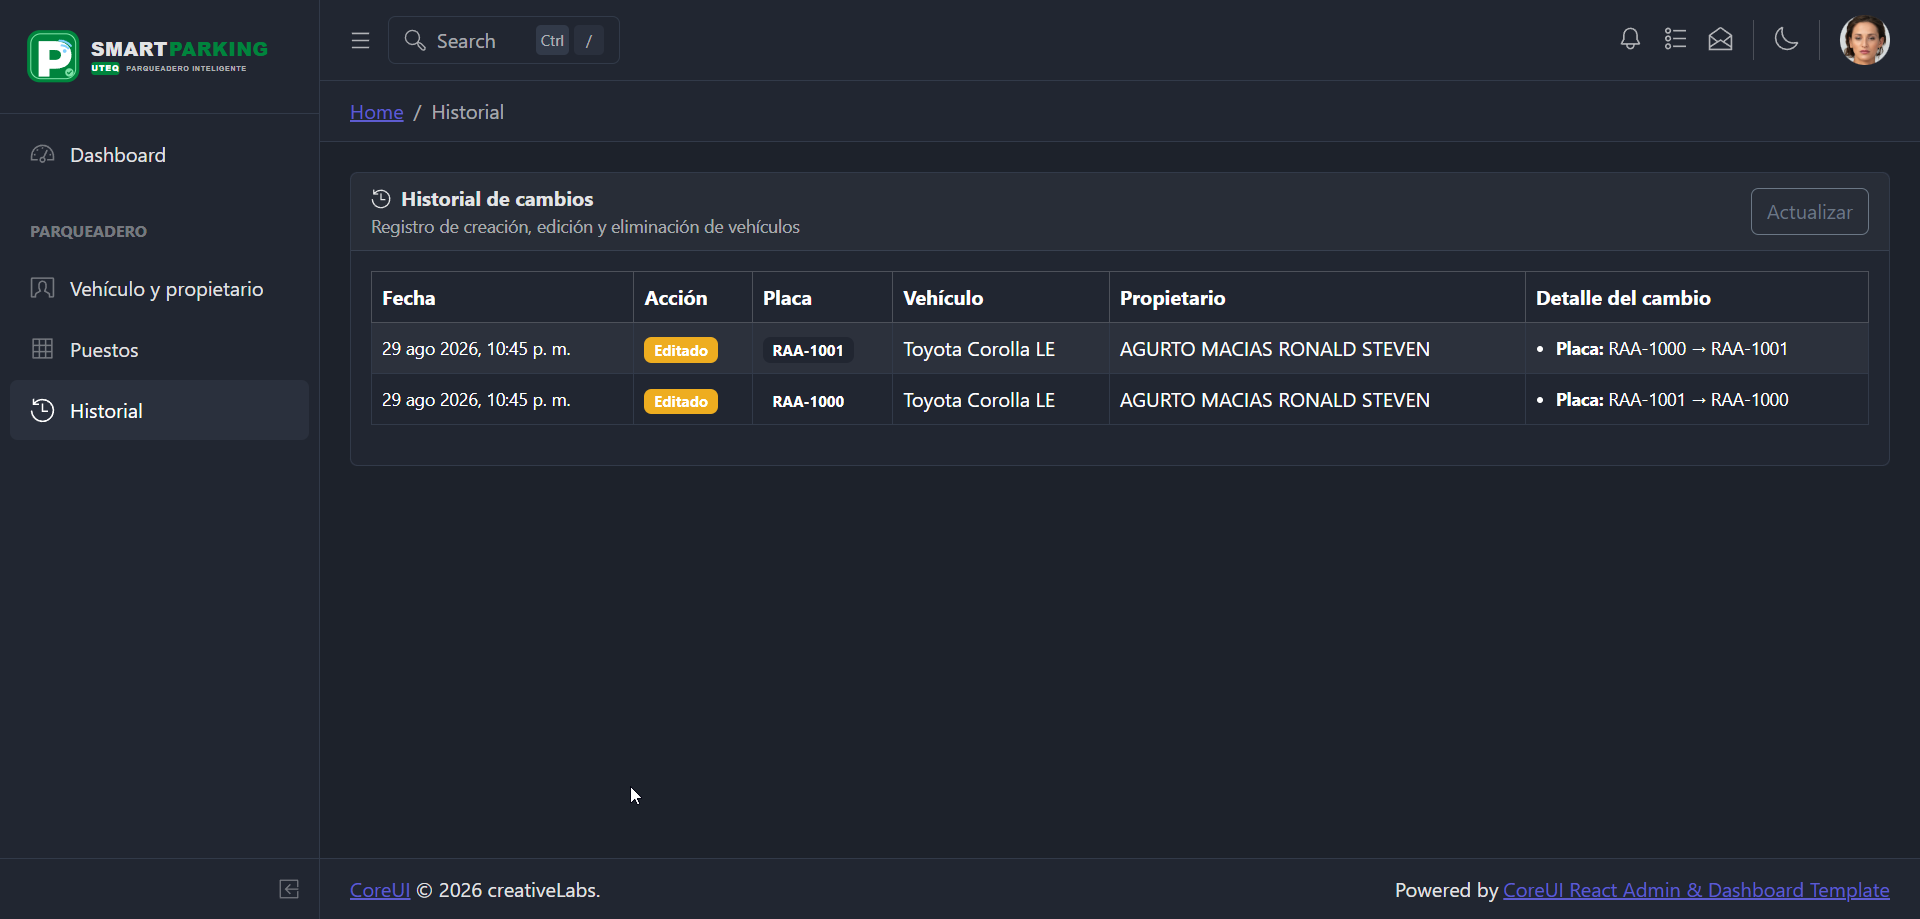
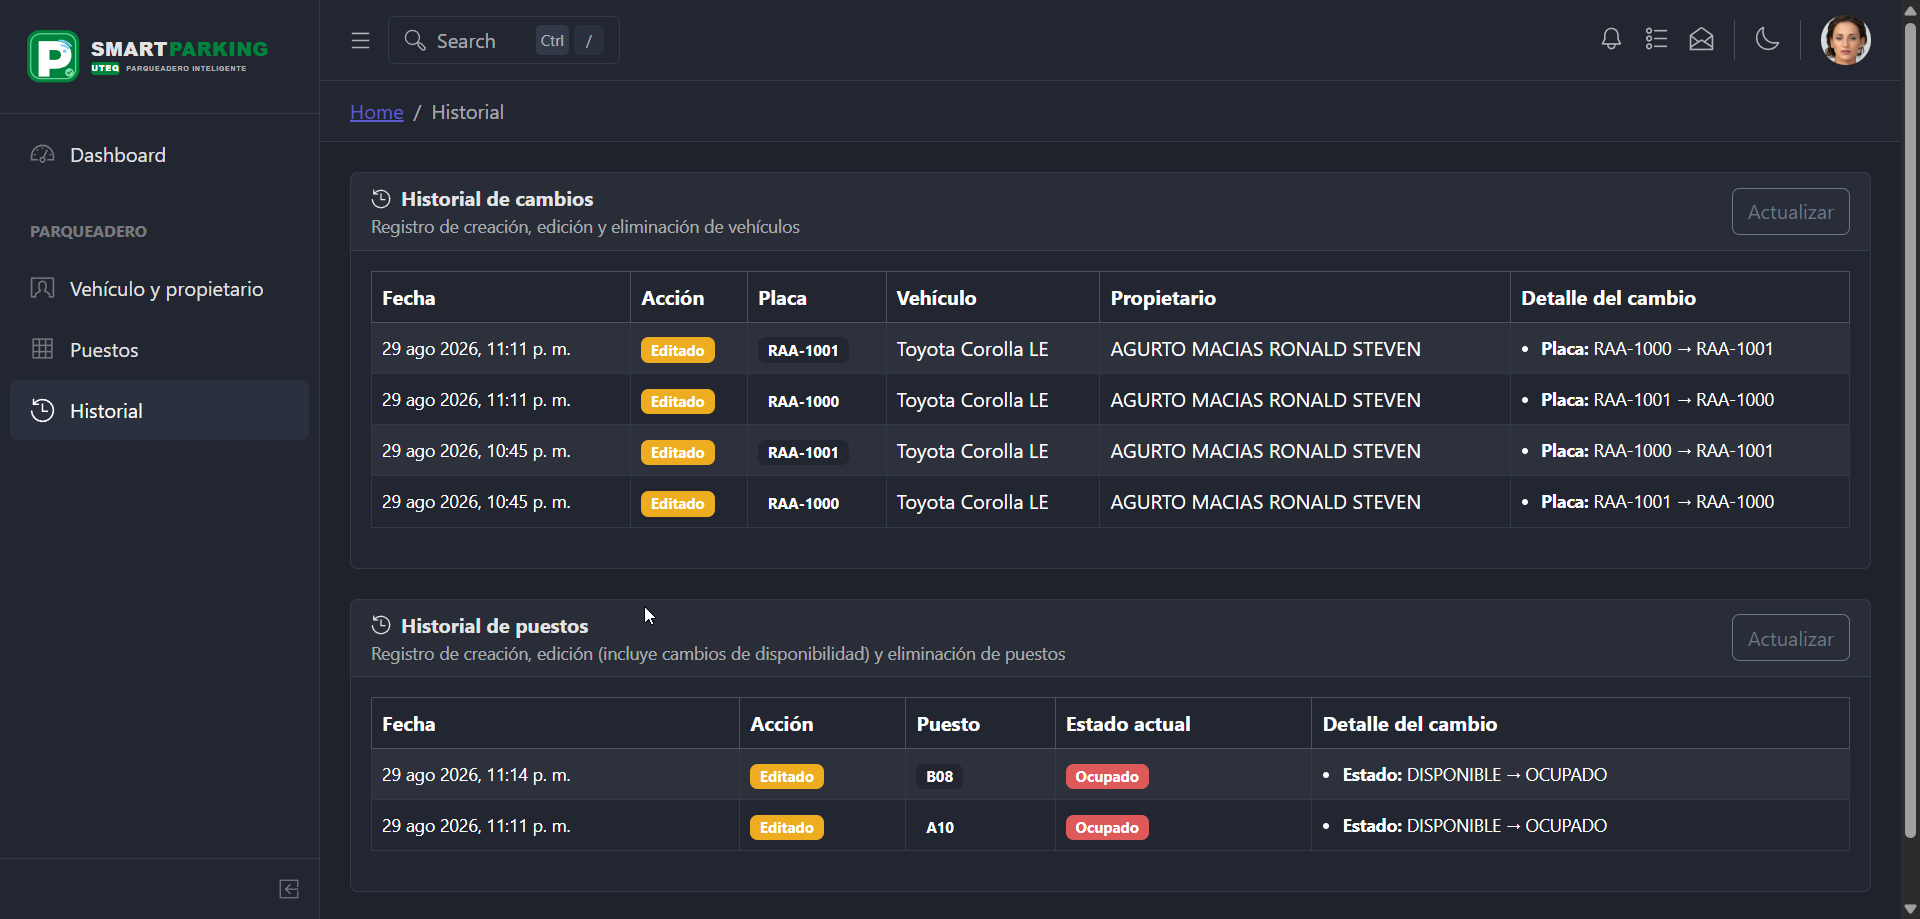
ultimo

diff --git a/src/views/parqueadero/HistorialPuestos.jsx b/src/views/parqueadero/HistorialPuestos.jsx
@@ -1,0 +1,193 @@
+import React from 'react'
+import {
+  CAlert,
+  CBadge,
+  CButton,
+  CCard,
+  CCardBody,
+  CCardHeader,
+  CSpinner,
+  CTable,
+  CTableBody,
+  CTableDataCell,
+  CTableHead,
+  CTableHeaderCell,
+  CTableRow,
+} from '@coreui/react'
+import CIcon from '@coreui/icons-react'
+import { cilHistory } from '@coreui/icons'
+
+import { usePuestosHistorial } from '../../hooks/usePuestosHistorial'
+
+const COLOR_ACCION = {
+  INSERT: 'success',
+  UPDATE: 'warning',
+  DELETE: 'danger',
+}
+
+const ETIQUETA_ACCION = {
+  INSERT: 'Creado',
+  UPDATE: 'Editado',
+  DELETE: 'Eliminado',
+}
+
+const COLOR_ESTADO = {
+  DISPONIBLE: 'success',
+  OCUPADO: 'danger',
+}
+
+// Campos que se comparan para mostrar "qué cambió" en un UPDATE.
+// `estado` es el que indica si el puesto está disponible o no.
+const CAMPOS_MONITOREADOS = ['estado', 'codigo', 'columna', 'numero', 'sensor_id_rtdb']
+
+const ETIQUETAS_CAMPOS = {
+  estado: 'Estado',
+  codigo: 'Código',
+  columna: 'Columna',
+  numero: 'Número',
+  sensor_id_rtdb: 'Sensor',
+}
+
+const formatearFecha = (fechaIso) =>
+  new Date(fechaIso).toLocaleString('es-EC', {
+    dateStyle: 'medium',
+    timeStyle: 'short',
+  })
+
+const obtenerCambios = (anteriores, nuevos) => {
+  if (!anteriores || !nuevos) return []
+
+  return CAMPOS_MONITOREADOS.filter(
+    (campo) => String(anteriores[campo]) !== String(nuevos[campo]),
+  ).map((campo) => ({
+    campo: ETIQUETAS_CAMPOS[campo] || campo,
+    antes: anteriores[campo] === null || anteriores[campo] === undefined ? '—' : String(anteriores[campo]),
+    despues: nuevos[campo] === null || nuevos[campo] === undefined ? '—' : String(nuevos[campo]),
+  }))
+}
+
+const BadgeEstado = ({ estado }) => {
+  if (!estado) return <span className="text-body-secondary">—</span>
+  return (
+    <CBadge color={COLOR_ESTADO[estado] || 'secondary'} className="text-capitalize">
+      {estado.toLowerCase()}
+    </CBadge>
+  )
+}
+
+const HistorialPuestos = () => {
+  const { historial, cargando, error, recargar } = usePuestosHistorial()
+
+  return (
+    <CCard className="mb-4">
+      <CCardHeader className="d-flex justify-content-between align-items-center flex-wrap gap-2">
+        <div>
+          <strong>
+            <CIcon icon={cilHistory} className="me-2" />
+            Historial de puestos
+          </strong>
+          <div className="small text-body-secondary">
+            Registro de creación, edición (incluye cambios de disponibilidad) y eliminación de puestos
+          </div>
+        </div>
+
+        <CButton color="secondary" variant="outline" onClick={recargar} disabled={cargando}>
+          Actualizar
+        </CButton>
+      </CCardHeader>
+
+      <CCardBody>
+        {cargando && (
+          <div className="text-center py-5">
+            <CSpinner color="success" />
+            <p className="mt-3">Cargando historial...</p>
+          </div>
+        )}
+
+        {!cargando && error && (
+          <CAlert color="danger">
+            No se pudo cargar el historial: {error}
+            <div className="small mt-2">
+              Si el error menciona que la tabla <code>puestos_historial</code> no existe, falta
+              correr el script <code>sql/supabase_historial_puestos.sql</code> en Supabase.
+            </div>
+          </CAlert>
+        )}
+
+        {!cargando && !error && (
+          <CTable align="middle" bordered hover responsive striped>
+            <CTableHead color="dark">
+              <CTableRow>
+                <CTableHeaderCell>Fecha</CTableHeaderCell>
+                <CTableHeaderCell>Acción</CTableHeaderCell>
+                <CTableHeaderCell>Puesto</CTableHeaderCell>
+                <CTableHeaderCell>Estado actual</CTableHeaderCell>
+                <CTableHeaderCell>Detalle del cambio</CTableHeaderCell>
+              </CTableRow>
+            </CTableHead>
+
+            <CTableBody>
+              {historial.length === 0 ? (
+                <CTableRow>
+                  <CTableDataCell colSpan={5} className="text-center py-4">
+                    Aún no hay movimientos registrados.
+                  </CTableDataCell>
+                </CTableRow>
+              ) : (
+                historial.map((registro) => {
+                  const datos = registro.datos_nuevos || registro.datos_anteriores || {}
+                  const cambios = obtenerCambios(registro.datos_anteriores, registro.datos_nuevos)
+
+                  return (
+                    <CTableRow key={registro.id}>
+                      <CTableDataCell className="small">
+                        {formatearFecha(registro.modificado_en)}
+                      </CTableDataCell>
+
+                      <CTableDataCell>
+                        <CBadge color={COLOR_ACCION[registro.accion] || 'secondary'}>
+                          {ETIQUETA_ACCION[registro.accion] || registro.accion}
+                        </CBadge>
+                      </CTableDataCell>
+
+                      <CTableDataCell>
+                        <CBadge color="dark">{datos.codigo}</CBadge>
+                      </CTableDataCell>
+
+                      <CTableDataCell>
+                        <BadgeEstado estado={datos.estado} />
+                      </CTableDataCell>
+
+                      <CTableDataCell>
+                        {registro.accion === 'INSERT' && (
+                          <span className="text-body-secondary small">Puesto creado</span>
+                        )}
+                        {registro.accion === 'DELETE' && (
+                          <span className="text-body-secondary small">Puesto eliminado</span>
+                        )}
+                        {registro.accion === 'UPDATE' &&
+                          (cambios.length === 0 ? (
+                            <span className="text-body-secondary small">Sin cambios detectados</span>
+                          ) : (
+                            <ul className="small mb-0 ps-3">
+                              {cambios.map((cambio) => (
+                                <li key={cambio.campo}>
+                                  <strong>{cambio.campo}:</strong> {cambio.antes} → {cambio.despues}
+                                </li>
+                              ))}
+                            </ul>
+                          ))}
+                      </CTableDataCell>
+                    </CTableRow>
+                  )
+                })
+              )}
+            </CTableBody>
+          </CTable>
+        )}
+      </CCardBody>
+    </CCard>
+  )
+}
+
+export default HistorialPuestos

diff --git a/src/routes.js b/src/routes.js
@@ -21,7 +21,7 @@ const Dashboard = React.lazy(() => import('./views/dashboard/Dashboard'))
 // Parqueadero
 const ListaVehiculos = React.lazy(() => import('./views/parqueadero/ListaVehiculos'))
 const ListaPuestos = React.lazy(() => import('./views/parqueadero/ListaPuestos'))
-const HistorialVehiculos = React.lazy(() => import('./views/parqueadero/HistorialVehiculos'))
+const Historial = React.lazy(() => import('./views/parqueadero/Historial'))
 
 // Components
 const Accordion = React.lazy(() => import('./views/components/accordion/Accordion'))
@@ -75,7 +75,7 @@ export const routes = [
   { path: '/dashboard', name: 'Dashboard', element: Dashboard },
   { path: '/parqueadero/vehiculo-propietario', name: 'Vehículo y propietario', element: ListaVehiculos },
   { path: '/parqueadero/puestos', name: 'Puestos', element: ListaPuestos },
-  { path: '/parqueadero/historial', name: 'Historial', element: HistorialVehiculos },
+  { path: '/parqueadero/historial', name: 'Historial', element: Historial },
   { path: '/components', name: 'Components', element: Accordion, exact: true },
   { path: '/components/accordion', name: 'Accordion', element: Accordion },
   { path: '/components/alerts', name: 'Alerts', element: Alerts },

diff --git a/src/hooks/usePuestosHistorial.js b/src/hooks/usePuestosHistorial.js
@@ -1,0 +1,44 @@
+import { useCallback, useEffect, useState } from 'react'
+import { supabase } from '../lib/supabase'
+
+const LIMITE_REGISTROS = 300
+
+export const usePuestosHistorial = () => {
+  const [historial, setHistorial] = useState([])
+  const [cargando, setCargando] = useState(true)
+  const [error, setError] = useState('')
+
+  const cargarHistorial = useCallback(async () => {
+    setCargando(true)
+    setError('')
+
+    const { data, error: errorSupabase } = await supabase
+      .from('puestos_historial')
+      .select('id, puesto_id, accion, datos_anteriores, datos_nuevos, modificado_en')
+      .order('modificado_en', { ascending: false })
+      .limit(LIMITE_REGISTROS)
+
+    if (errorSupabase) {
+      setHistorial([])
+      setError(errorSupabase.message)
+    } else {
+      setHistorial(data ?? [])
+    }
+
+    setCargando(false)
+  }, [])
+
+  useEffect(() => {
+    // eslint-disable-next-line react-hooks/set-state-in-effect
+    cargarHistorial()
+  }, [cargarHistorial])
+
+  return {
+    historial,
+    cargando,
+    error,
+    recargar: cargarHistorial,
+  }
+}
+
+export default usePuestosHistorial

diff --git a/src/views/parqueadero/Historial.jsx b/src/views/parqueadero/Historial.jsx
@@ -1,0 +1,20 @@
+import React from 'react'
+import { CCol, CRow } from '@coreui/react'
+
+import HistorialVehiculos from './HistorialVehiculos'
+import HistorialPuestos from './HistorialPuestos'
+
+const Historial = () => {
+  return (
+    <CRow>
+      <CCol xs={12}>
+        <HistorialVehiculos />
+      </CCol>
+      <CCol xs={12}>
+        <HistorialPuestos />
+      </CCol>
+    </CRow>
+  )
+}
+
+export default Historial

diff --git a/README.md b/README.md
@@ -14,22 +14,29 @@
 
 ---
 
-## � Galería de Características
+## 🖼 Capturas de Pantalla
 
-Una vista previa de los componentes y características visuales de la aplicación:
+Explora las principales funcionalidades de UTEQ Smart Parking:
 
-<div align="center">
+### 📋 Gestión de Vehículos y Propietarios
+![Vehículos y Propietarios](docs/1.png)
+*Panel principal con tabla interactiva de vehículos registrados, información de propietarios, fotos y acciones (editar/eliminar)*
 
-| Componentes | Iconografía | Diseño Responsivo |
-|:---:|:---:|:---:|
-| ![Componentes](src/assets/images/components.webp) | ![Iconografía](src/assets/images/icons.webp) | ![React](src/assets/images/react.jpg) |
-| Sistema modular de UI | Librería de iconos | Interfaz moderna |
+### 🅿 Puestos de Parqueadero - Vista Cuadrícula
+![Puestos Cuadrícula](docs/2.png)
+*Visualización de puestos de estacionamiento organizados por columnas con estado de ocupación (verde = disponible, rojo = ocupado)*
 
-</div>
+### 📊 Puestos de Parqueadero - Vista Tabla
+![Puestos Tabla](docs/2.5.png)
+*Vista alternativa en tabla con detalles de código, columna, sensor y distancia de cada puesto*
+
+### 📝 Historial de Cambios
+![Historial](docs/3.png)
+*Registro de todas las acciones (creación, edición, eliminación) con detalles completos de cambios realizados*
 
 ---
 
-## �📋 Descripción
+## 📋 Descripción
 
 **UTEQ Smart Parking** es una aplicación administrativa moderna desarrollada con **React 19**, **CoreUI 5** y **Supabase** diseñada para gestionar de forma eficiente los vehículos autorizados y datos de sus propietarios en la Universidad Técnica Estatal de Quevedo.
 
